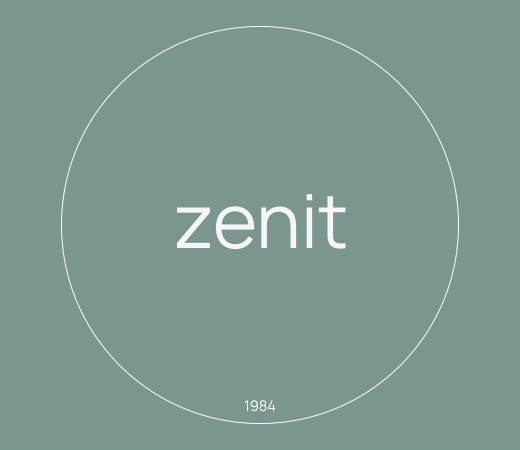
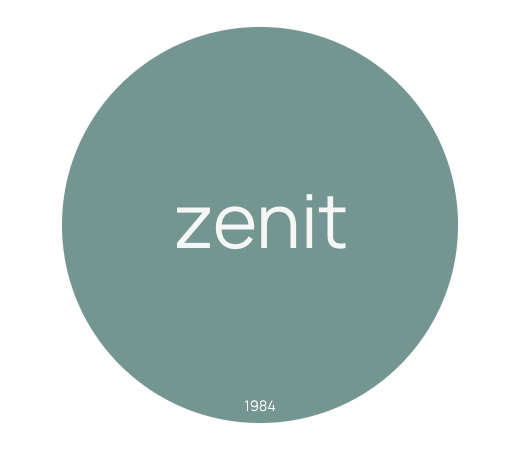
Covers Added

diff --git a/main.css b/main.css
@@ -85,7 +85,6 @@ a:hover {
 
 /* Main Page */
 .cover {
-  background-color: #fafafa;
   margin-bottom: 100px;
 }
 
@@ -101,19 +100,25 @@ a:hover {
         background:url('/img/kursk-cover@2x.png') no-repeat top left;
         background-size: 1080px 450px;
     }
-}
-
-#kursk:hover {
-  background-image: url("/img/kursk-cover-hover.png");
-}
-
-@media (-webkit-min-device-pixel-ratio: 2),
-(min-resolution: 192dpi) { 
 
     #kursk:hover {
         background:url('/img/kursk-cover-hover@2x.png') no-repeat top left;
         background-size: 1080px 450px;
     }
+
+    #zenit {
+        background:url('/img/zenit-cover@2x.png') no-repeat top left;
+        background-size: 540px 450px;
+    }
+
+    #zenit:hover {
+        background:url('/img/zenit-cover-hover@2x.png') no-repeat top left;
+        background-size: 540px 450px;
+    }
+}
+
+#kursk:hover {
+  background-image: url("/img/kursk-cover-hover.png");
 }
 
 #zenit {
